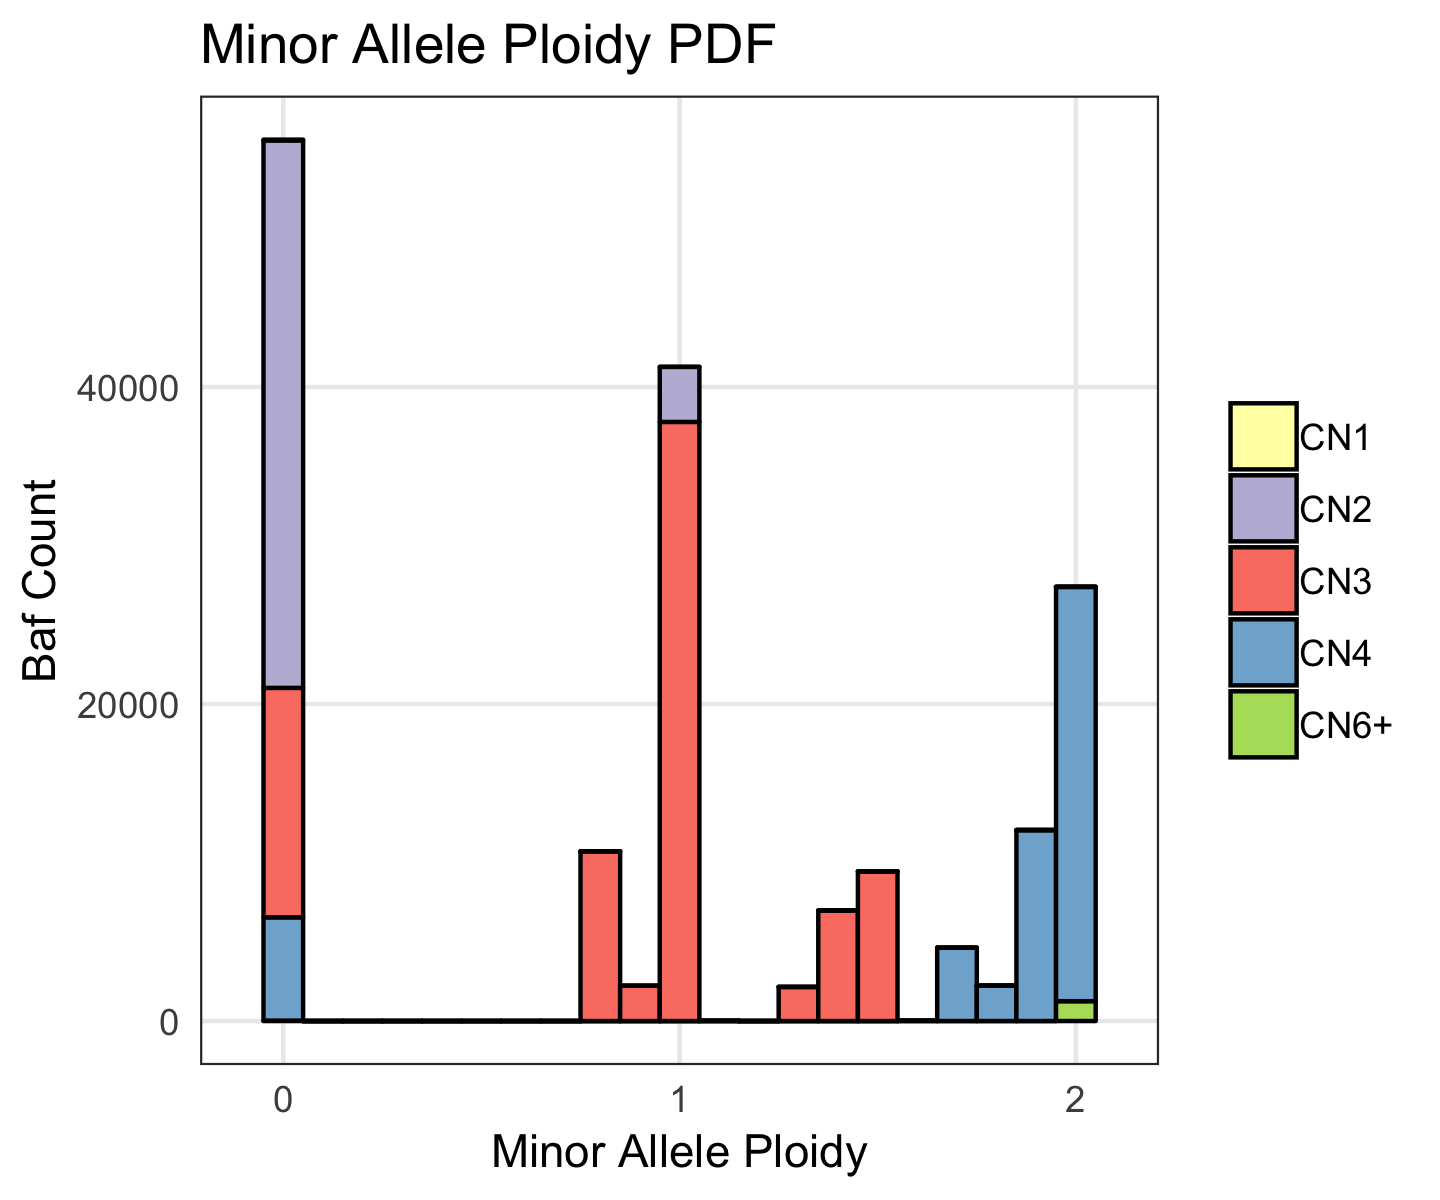
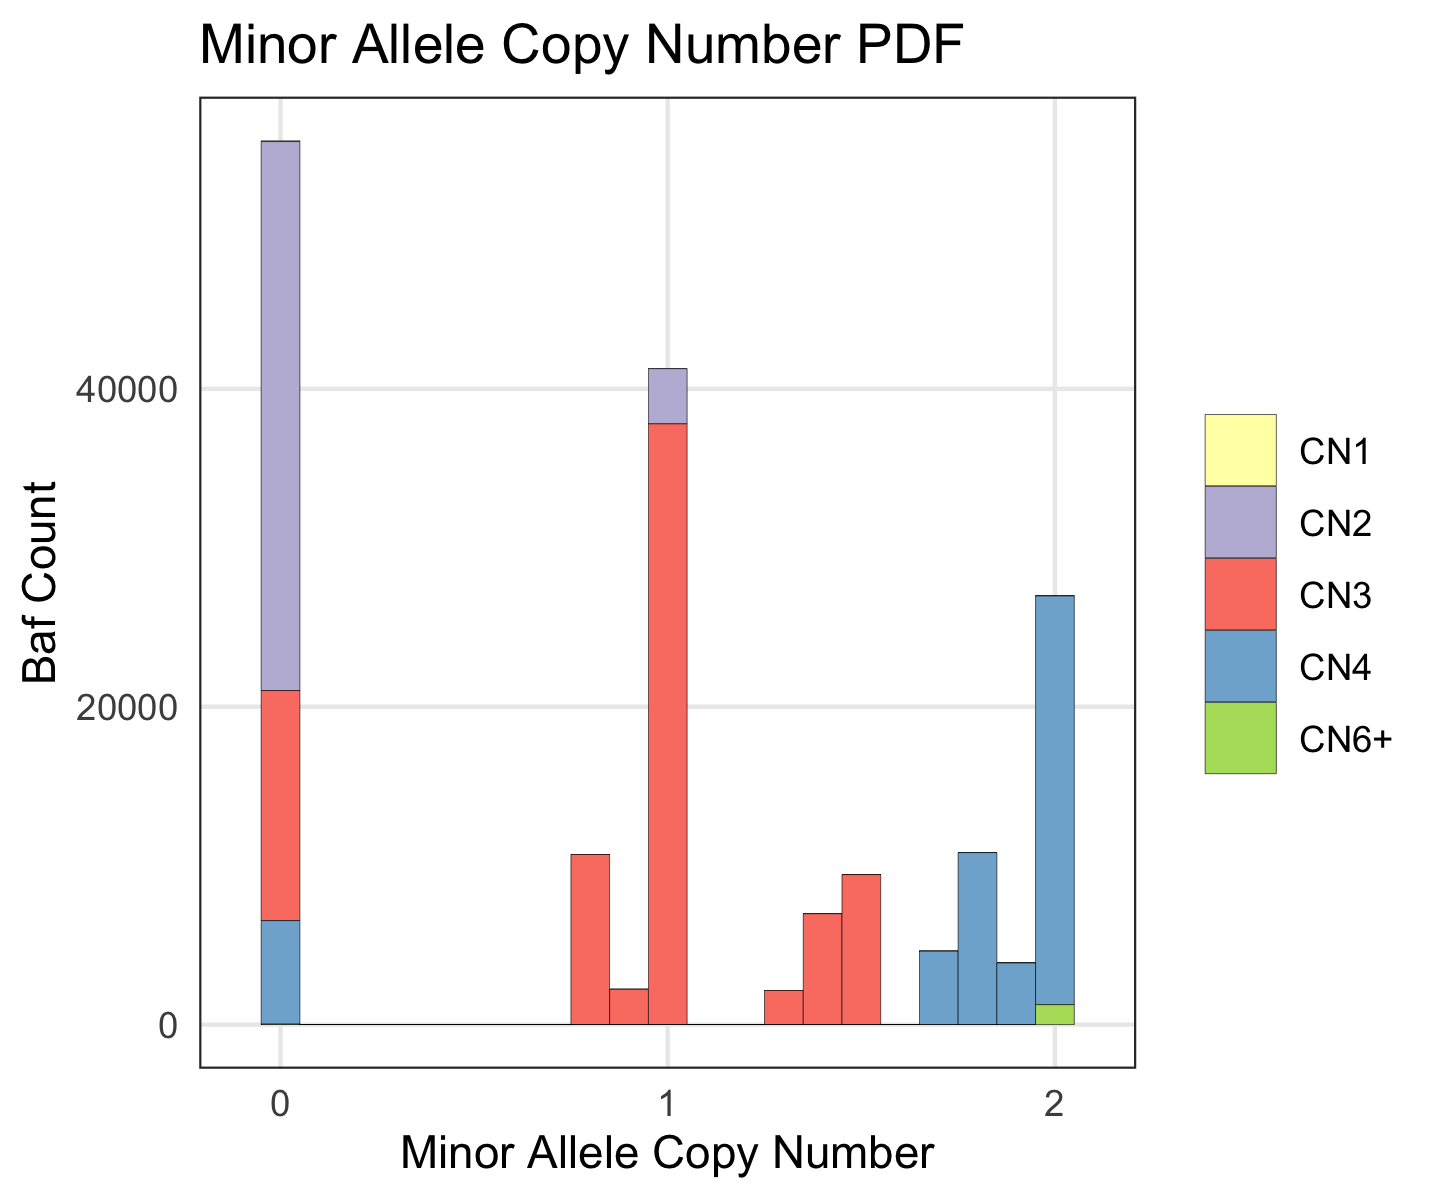
update plots

diff --git a/purity-ploidy-estimator/README.md b/purity-ploidy-estimator/README.md
@@ -930,7 +930,7 @@ Rscript copyNumberPlots.R COLO829T ~/hmf/COLO829T/purple ~/hmf/COLO829T/purple/p
 ``` 
 
 The following 'sunrise' chart shows the range of scores of all examined solutions of purity and ploidy. 
-Crosshairs identify the best purity / ploidy solution. 
+Crosshairs identify the best purity / ploidy solution. Other viable solutions are shown in blue.
 
 <p align="center">
     <img src="src/main/resources/readme/COLO829T.purity.range.png" width="500" alt="Purity Range">
@@ -994,6 +994,9 @@ Threads | Elapsed Time| CPU Time | Peak Mem
 
 
 ## Version History and Download Links
+- Upcoming
+  - Sunrise plot shows relative score
+  - Minor cosmetic changes to plots
 - [2.44](https://github.com/hartwigmedical/hmftools/releases/tag/purple-v2.44) 
   - Requires [database patch](../patient-db/src/main/resources/patches/purple2.43_to_2.44_migration.sql). Note that there are corresponding patches for [Linx](../patient-db/src/main/resources/patches/linx_1.10.sql) and [PatientDb](../patient-db/src/main/resources/patches/patientdb3.43_to_3.44_migration.sql).
   - Use non diplod-normalised normal ratio for input circos figure
